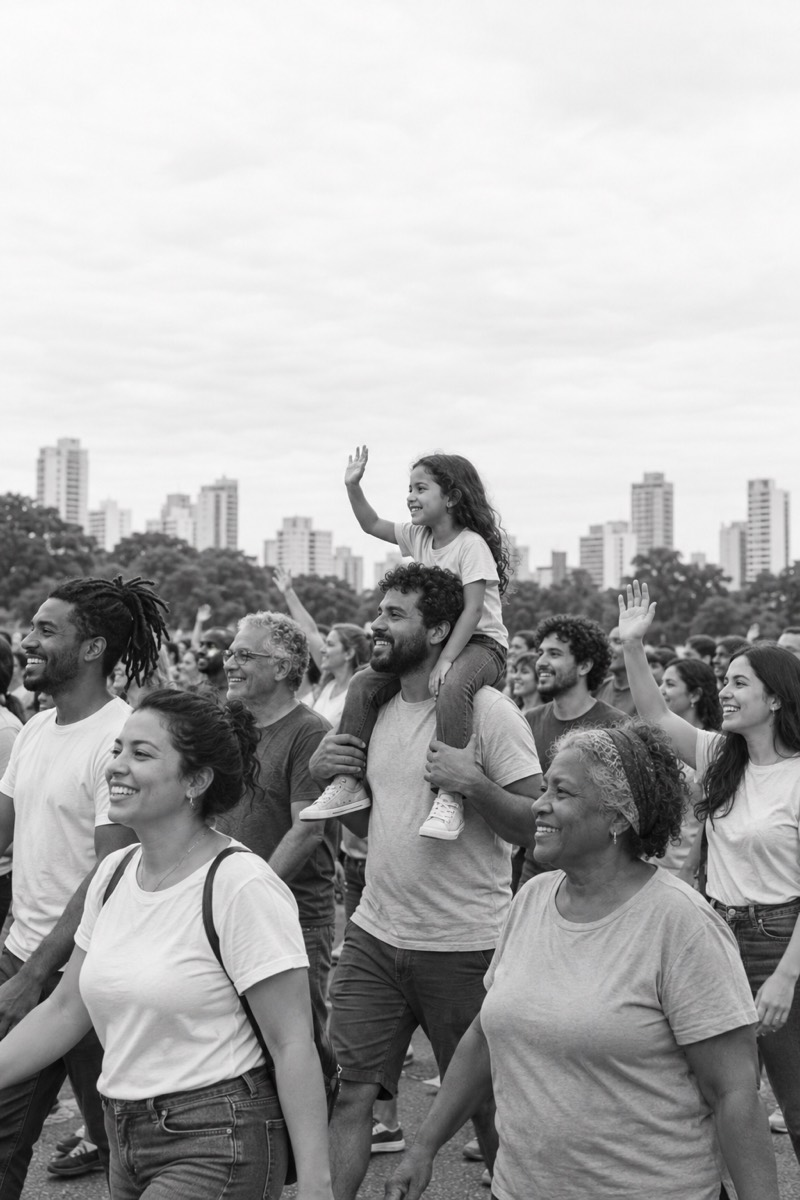
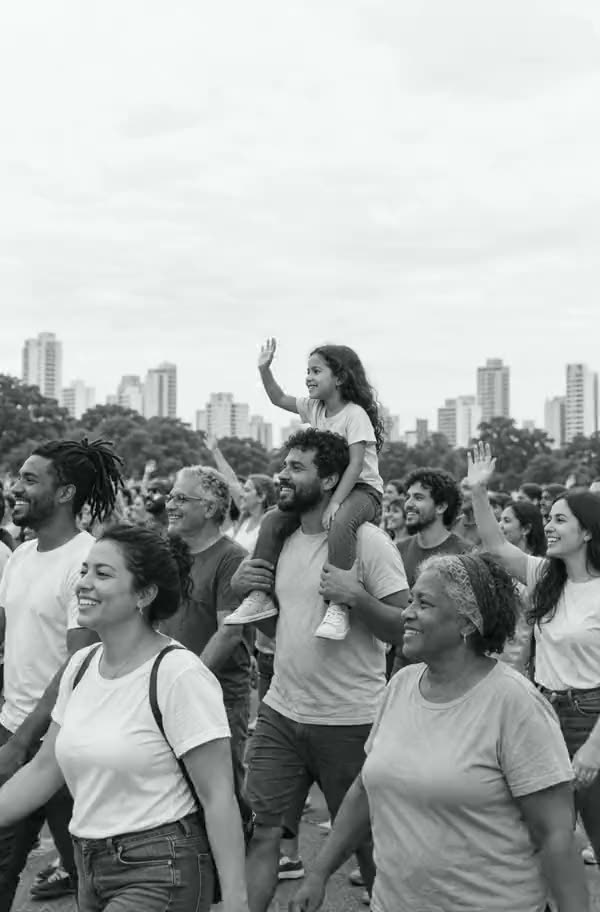
Protótipo A: corrige alinhamento da vinheta (pôster = 1º quadro do vídeo, pouso da faixa na barra, sem pulo da barra de rolagem)

diff --git a/docs/prototipo/novo-design/js/a.js b/docs/prototipo/novo-design/js/a.js
@@ -202,7 +202,6 @@ export function render(m, root) {
 		const tHoje = iHoje * PASSO;
 		const cabeca = root.querySelector(".a-veredito h1");
 		cabeca.animate([{ opacity: 0 }, { opacity: 1 }], { duration: 400, delay: 3 * PASSO, fill: "backwards" });
-		relogio.textContent = "dias até a votação";
 
 		celulas.forEach((cel, i) => {
 			const d = cel.dataset.d;
@@ -371,12 +370,13 @@ export function render(m, root) {
 		const t2 = t1 + 2050;
 		tm.push(
 			setTimeout(() => {
+				comecar(); // o calendário começa a correr enquanto a faixa voa para o topo
+				// mede o destino só depois que o calendário começou (nada mais mexe no layout do topo)
 				const alvo = root.querySelector(".a-cabo").getBoundingClientRect();
 				const faixa = q(".a-i-faixa");
 				const r = faixa.getBoundingClientRect();
 				anim(faixa, [{ transform: "none" }, { transform: `translate(${alvo.left - r.left}px, ${alvo.top - r.top}px) scale(${alvo.width / r.width}, ${alvo.height / r.height})` }], { duration: 750 });
 				anim(ov, [{ backgroundColor: "rgb(242 244 247)" }, { backgroundColor: "rgb(242 244 247 / 0)" }], { duration: 750 });
-				comecar(); // o calendário começa a correr enquanto a faixa voa para o topo
 			}, t2),
 		);
 		let comecou = false;

diff --git a/docs/prototipo/novo-design/index.html b/docs/prototipo/novo-design/index.html
@@ -13,6 +13,7 @@
 		<link rel="stylesheet" href="css/fontes.css" />
 		<style>
 			*, *::before, *::after { box-sizing: border-box; margin: 0; padding: 0; }
+			html { scrollbar-gutter: stable; } /* a vinheta trava a rolagem sem o layout pular */
 			img { display: block; max-width: 100%; }
 			/* pontos e linhas desligados no gráfico (compartilhado) */
 			svg .t-pt, svg .t-inst { transition: opacity .35s, r .35s; }
